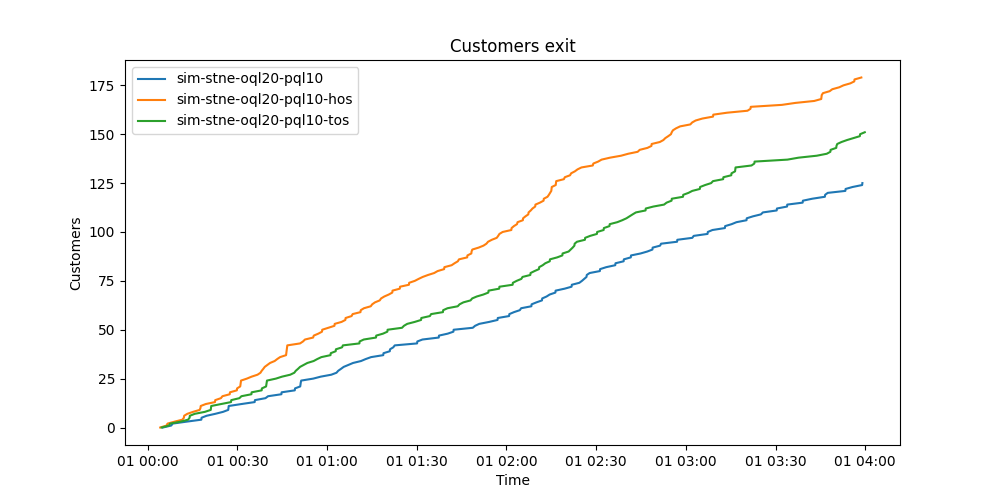
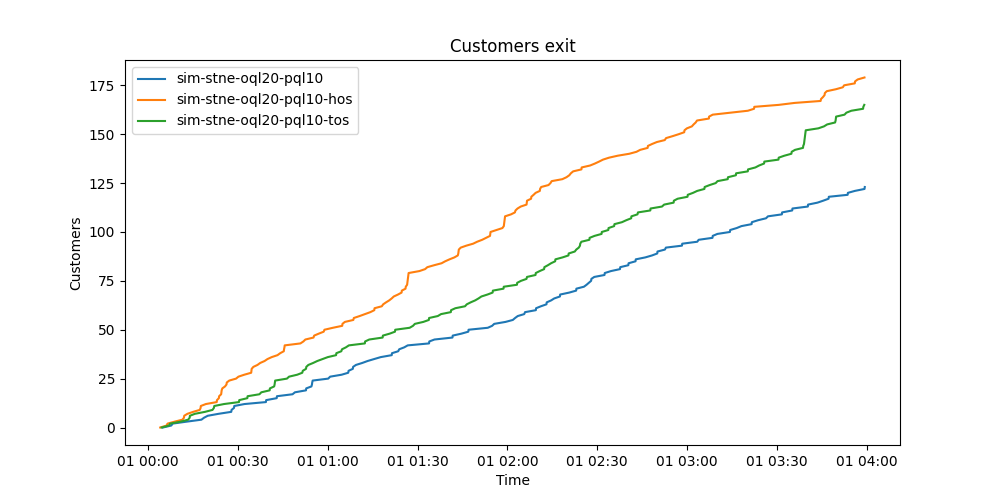
updated graphs

diff --git a/data/jsonToStats.py b/data/jsonToStats.py
@@ -5,7 +5,7 @@ import os
 import matplotlib.pyplot as plt
 
 filenames = ["mcd1", "mcd2", "sim-stne", "sim-stne-hos", "sim-stne-tos"]
-filenames_extended = ["extended-stne-oql0-pql0", "extended-stne-oql0-pql0-hos", "extended-stne-oql0-pql0-tos"]
+filenames_extended = ["extended-stne", "extended-stne-hos", "extended-stne-tos"]
 
 max_queue_delta_sideways = []
 min_queue_delta_sideways = []
@@ -419,6 +419,6 @@ def writeToReadme():
 
 writeToReadme()
 #graphCustomersArrival()
-graphCustomersExit("-oql0-pql0")
-graphCustomersLost("-oql0-pql0")
+graphCustomersExit("-default")
+graphCustomersLost("-default")
 #graphOrderQueueLength()

diff --git a/data/README.md b/data/README.md
@@ -353,9 +353,9 @@
     <td>Sales Volume</td>
           <td>--</td>
           <td>--</td>
-          <td>3201.31</td>
-          <td>1837.5</td>
-          <td>2522.76</td>
+          <td>2375.19</td>
+          <td>1837.02</td>
+          <td>2128.81</td>
   </tr>
   <tr>
     <td>Customers Lost</td>
@@ -369,9 +369,9 @@
     <td>Sales Volume Lost</td>
           <td>--</td>
           <td>--</td>
+          <td>730.49</td>
           <td>0</td>
-          <td>0</td>
-          <td>0</td>
+          <td>399.85</td>
   </tr>
   </table>
     
